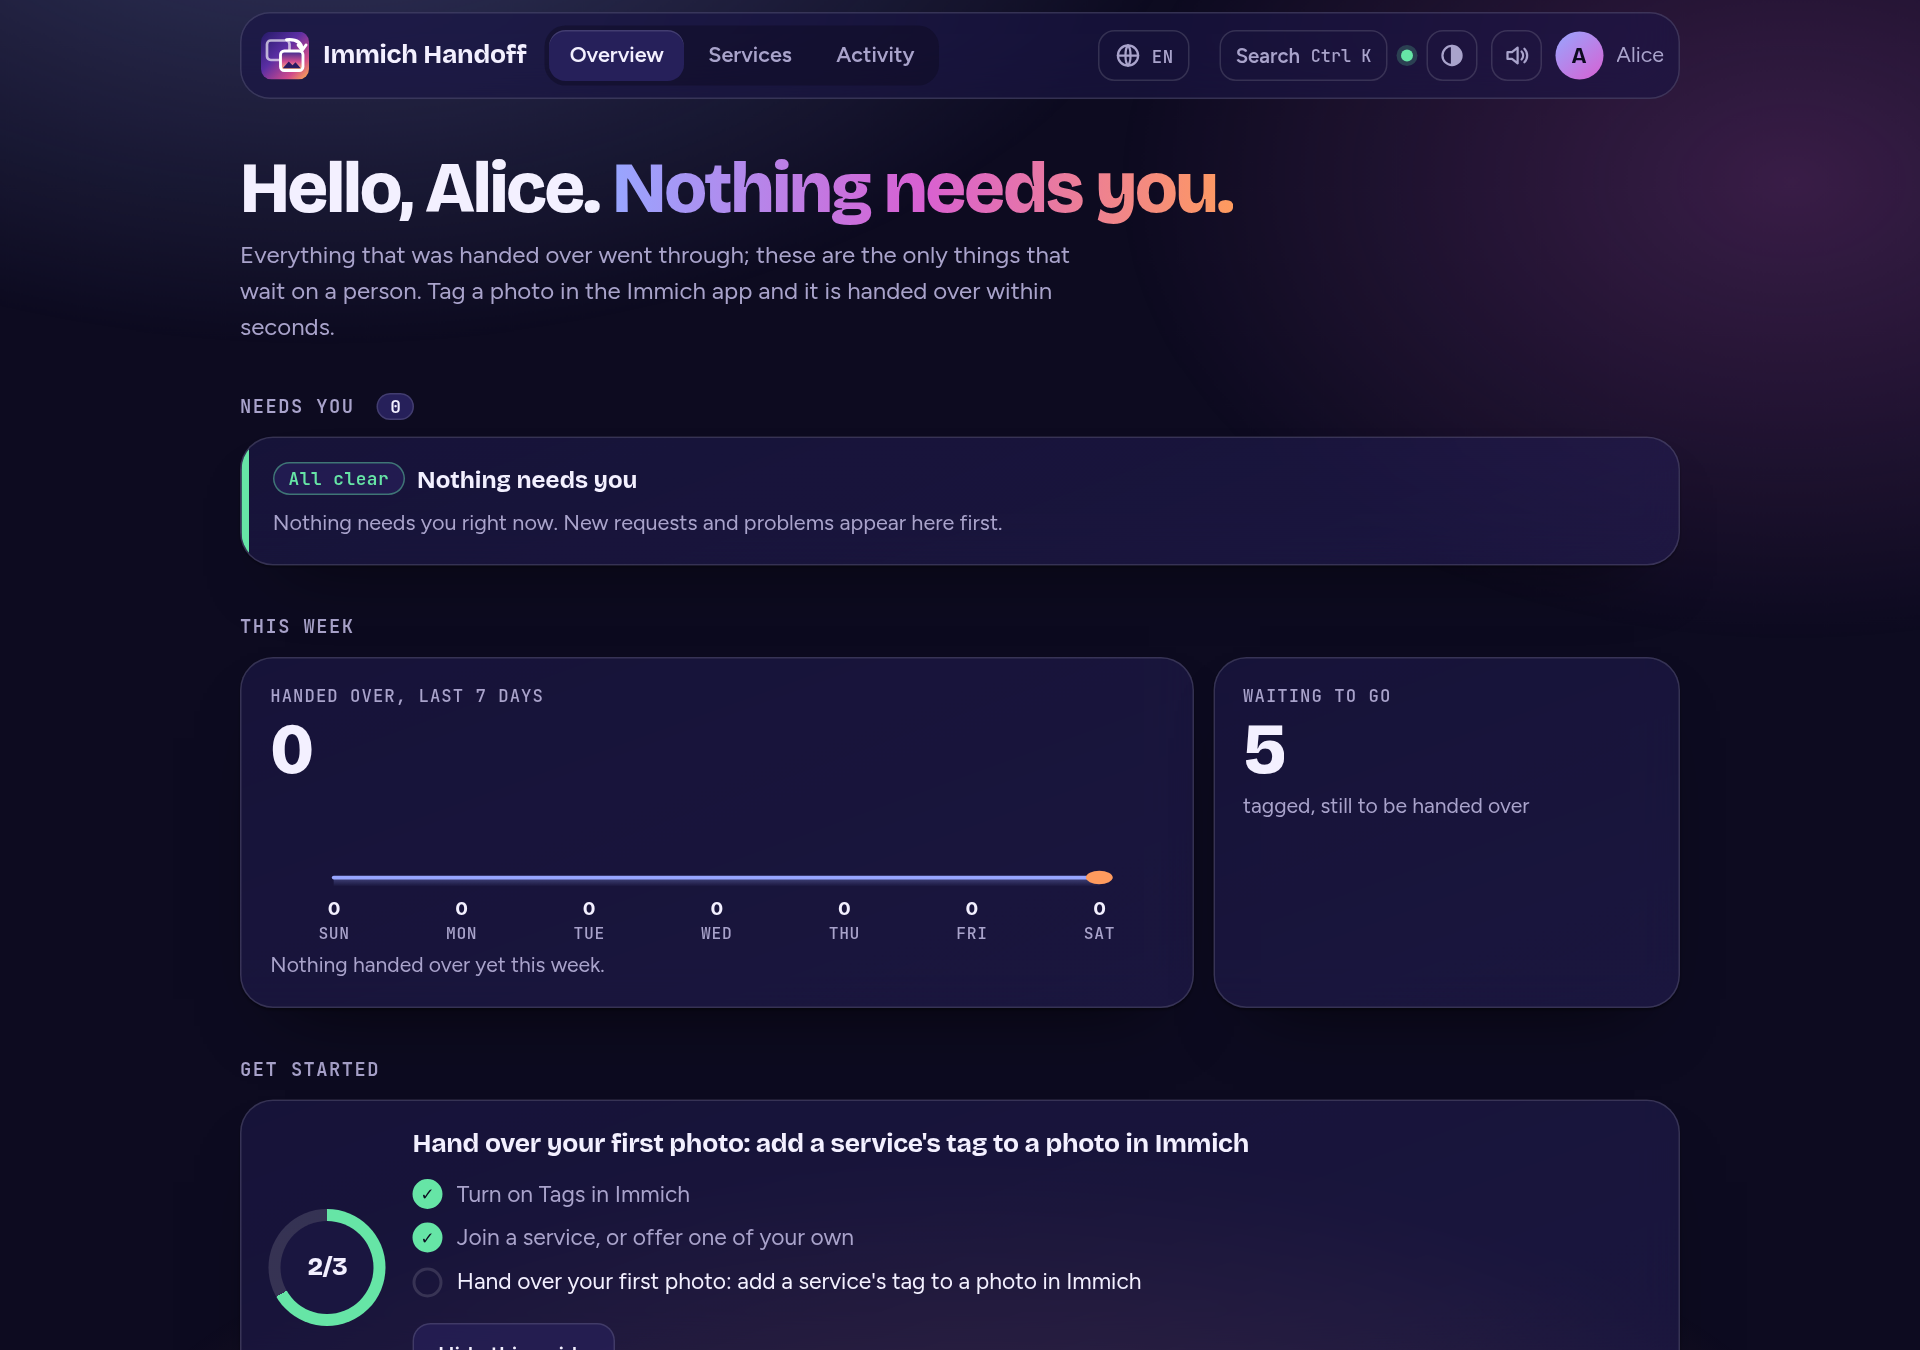
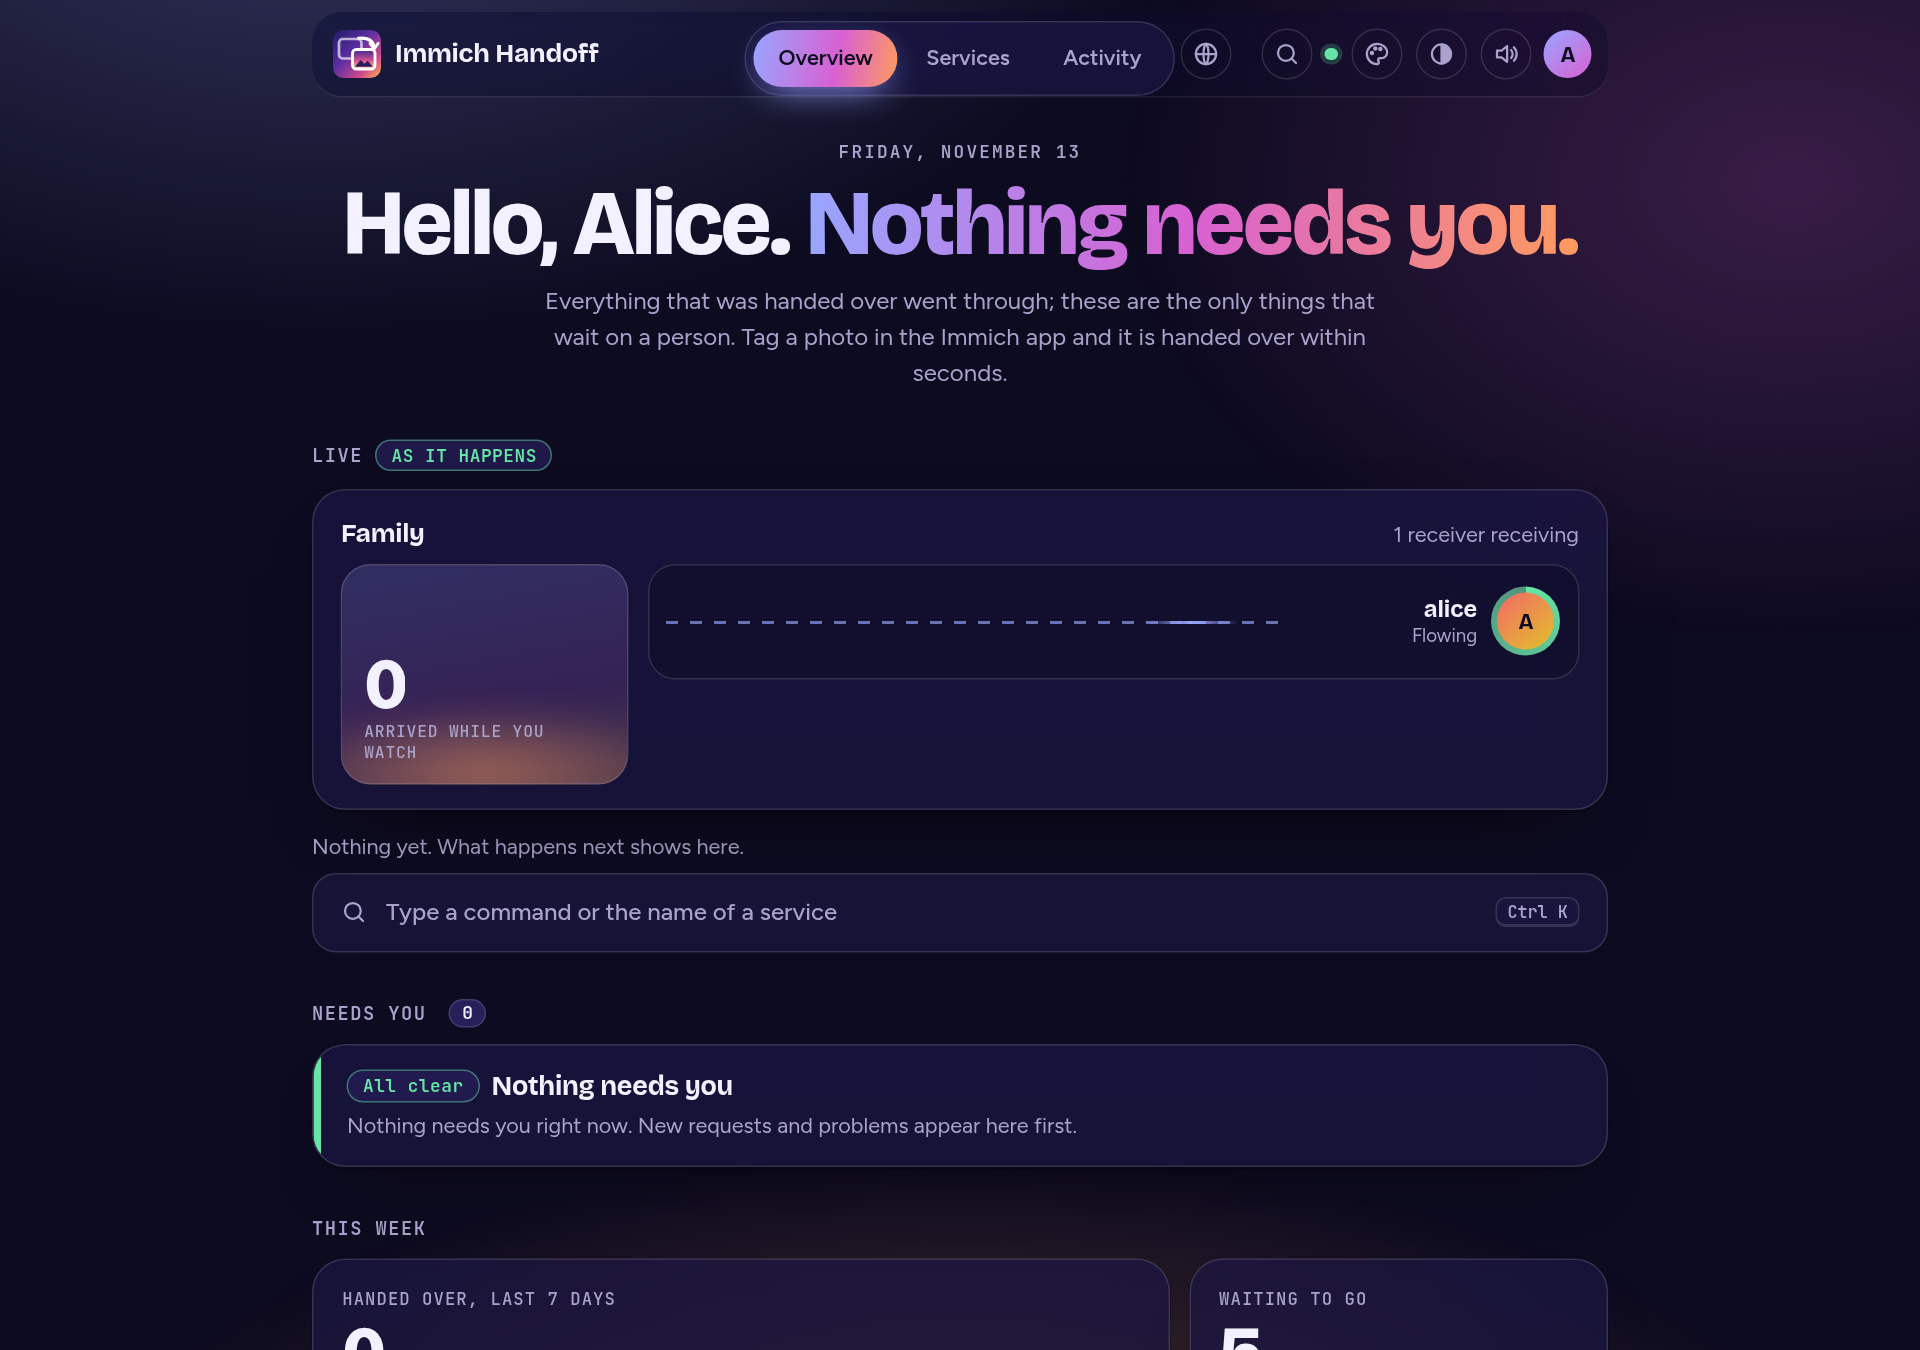
docs: new pictures and animations of the new look, and a wall animation; the screenshot tool films the wall and the colour scheme menu and has an audit set

Changed region(s): [[0.125, 0.28, 0.875, 1.0], [0.125, 0.0, 0.8125, 0.28], [0.5625, 0.0, 0.875, 0.0622]]

diff --git a/tools/screenshots/wall.go b/tools/screenshots/wall.go
@@ -1,0 +1,121 @@
+package main
+
+import (
+	"bytes"
+	"context"
+	"encoding/json"
+	"fmt"
+	"io"
+	"log"
+	"mime/multipart"
+	"net/http"
+	"net/url"
+	"os"
+	"path/filepath"
+	"regexp"
+	"sort"
+	"strings"
+	"time"
+)
+
+// wallScene makes what the wall's animation needs: as Bob, a drop box and a wall on it, and a few photos sent through the
+// box's link the way a guest sends them. It waits until the wall lists them, and returns the wall's address and the
+// steps that send one more photo while the page is filmed (a new arrival) and try the styles.
+func wallScene() (string, []step) {
+	cookies := ""
+	for _, c := range loginCookies("bob@test.local") {
+		cookies += c.Name + "=" + c.Value + "; "
+	}
+	call := func(method, path string, body io.Reader, ctype string) (int, string) {
+		req, err := http.NewRequest(method, appURL+path, body)
+		if err != nil {
+			log.Fatal(err)
+		}
+		req.Header.Set("Cookie", cookies)
+		req.Header.Set("X-Requested-With", "immich-handoff")
+		if ctype != "" {
+			req.Header.Set("Content-Type", ctype)
+		}
+		res, err := http.DefaultClient.Do(req)
+		if err != nil {
+			log.Fatal(err)
+		}
+		defer res.Body.Close()
+		b, _ := io.ReadAll(res.Body)
+		return res.StatusCode, string(b)
+	}
+	form := func(path string, v url.Values) (int, string) {
+		return call("POST", path, strings.NewReader(v.Encode()), "application/x-www-form-urlencoded")
+	}
+	if code, body := form("dropbox", url.Values{"name": {"Summer wedding"}, "opendays": {"30"}, "message": {"Share your photos of the day."}}); code >= 300 {
+		log.Fatalf("make the drop box: %d %s", code, body)
+	}
+	_, page := call("GET", "", nil, "")
+	id := regexp.MustCompile(`(?s)hx-post="dropbox/wall"[^>]*?service(?:"|&#34;):(?:"|&#34;)([0-9A-Za-z-]+)`).FindStringSubmatch(page)
+	if id == nil {
+		log.Fatal("the wall's button is not on Bob's page")
+	}
+	if code, body := form("dropbox/wall", url.Values{"service": {id[1]}}); code >= 300 {
+		log.Fatalf("start the wall: %d %s", code, body)
+	}
+	_, page = call("GET", "", nil, "")
+	wall := regexp.MustCompile(`wall/([0-9a-f]{20,})`).FindStringSubmatch(page)
+	drop := regexp.MustCompile(`drop/([0-9a-f]{32,})`).FindStringSubmatch(page)
+	if wall == nil || drop == nil {
+		log.Fatalf("the links are not on Bob's page (wall %v, drop %v)", wall != nil, drop != nil)
+	}
+	photos, _ := filepath.Glob(filepath.Join(os.Getenv("HOME"), ".local/share/immich-handoff-shots/photos", "*.jpg"))
+	sort.Strings(photos)
+	if len(photos) < 10 {
+		log.Fatal("no sample photos: run `go run . gen` first")
+	}
+	photos = photos[len(photos)-8:] // the last ones, which nothing else used
+	next := 0
+	send := func() {
+		var buf bytes.Buffer
+		mw := multipart.NewWriter(&buf)
+		f := photos[next%len(photos)]
+		next++
+		data, _ := os.ReadFile(f)
+		fw, _ := mw.CreateFormFile("files", filepath.Base(f))
+		fw.Write(data)
+		mw.Close()
+		req, _ := http.NewRequest("POST", appURL+"drop/"+drop[1]+"/upload", &buf)
+		req.Header.Set("Content-Type", mw.FormDataContentType())
+		req.Header.Set("X-Requested-With", "immich-handoff")
+		res, err := http.DefaultClient.Do(req)
+		if err != nil {
+			log.Printf("send a photo: %v", err)
+			return
+		}
+		io.Copy(io.Discard, res.Body)
+		res.Body.Close()
+	}
+	for i := 0; i < 3; i++ {
+		send()
+	}
+	// wait until the wall lists them (Immich has to take them in and the box tags them)
+	feed := appURL + "wall/" + wall[1] + "/feed"
+	deadline := time.Now().Add(150 * time.Second)
+	for time.Now().Before(deadline) {
+		res, err := http.Get(feed)
+		if err == nil {
+			var out struct{ Items []struct{ ID int } }
+			json.NewDecoder(res.Body).Decode(&out)
+			res.Body.Close()
+			if len(out.Items) >= 3 {
+				break
+			}
+		}
+		time.Sleep(3 * time.Second)
+	}
+	wake := js(`document.dispatchEvent(new Event('mousemove'))`)
+	steps := []step{
+		{3, func(context.Context) { send() }}, // a photo arrives while the wall is on screen
+		{13, wake}, {13.4, click(`button[data-fx="zoom"]`)},
+		{19, wake}, {19.4, click(`button[data-fx="slide"]`)},
+		{25, wake}, {25.4, click(`button[data-mode="grid"]`)},
+		{31, wake}, {31.4, click(`button[data-mode="collage"]`)},
+	}
+	return fmt.Sprintf("%swall/%s", appURL, wall[1]), steps
+}

diff --git a/tools/screenshots/film.go b/tools/screenshots/film.go
@@ -31,6 +31,7 @@ type scene struct {
 	clip           string // an XPath: only this element is kept (the crop is written to crop.txt)
 	pad            float64
 	steps          []step
+	prep           func() (string, []step) // sets the scene up and says where to look (and what to do while filming)
 }
 
 type step struct {
@@ -49,9 +50,10 @@ func scenes() map[string]scene {
 		// the command palette, in the dark: open it, type, move down, choose
 		"palette-dark": {name: "palette-dark", who: "bob@test.local", url: appURL, w: 1280, h: 720, dark: true, secs: 9,
 			steps: []step{{1.2, click("#palette")}, {2.4, typeText("#cmd-q", "ser", 280*time.Millisecond)}, {4.2, key("ArrowDown")}, {5.4, key("Enter")}}},
-		// the theme button: light, dark, light
-		"theme-switch": {name: "theme-switch", who: "bob@test.local", url: appURL, w: 1280, h: 720, secs: 8,
-			steps: []step{{1.5, click("#theme")}, {4.8, click("#theme")}}},
+		// the two buttons in the bar: light, dark, light; then the colour scheme menu and the other scheme, in light and dark
+		"theme-switch": {name: "theme-switch", who: "bob@test.local", url: appURL, w: 1280, h: 720, secs: 15,
+			steps: []step{{1.2, click("#theme")}, {3, click("#theme")}, {4.8, click("details.scheme > summary")}, {6, click(`button[data-palette="immich"]`)},
+				{8, click("#theme")}, {10, click("details.scheme > summary")}, {11.2, click(`button[data-palette="twilight"]`)}}},
 		// tabs, and a service row that opens in place, with the cards tilting toward the pointer (light)
 		"services-light": {name: "services-light", who: "bob@test.local", url: appURL, w: 1280, h: 760, secs: 10,
 			steps: []step{{1, click(`nav.tabs a[data-view="services"]`)}, {2.4, click("#v-services details.svc > summary")},
@@ -62,6 +64,8 @@ func scenes() map[string]scene {
 			steps: []step{{0.8, js(`const r=[...document.querySelectorAll('#v-services details.svc')].find(d=>d.querySelector('input.invite')); r.open=true`)},
 				{1.8, js(`document.querySelector('input.invite').scrollIntoView({block:'center', behavior:'smooth'})`)},
 				{3.2, click("button.show-qr")}, {5.6, click("button.copy-message")}}},
+		// the wall on a screen, in the dark: a photo arrives, then the styles and the layouts are tried
+		"wall": {name: "wall", w: 1280, h: 720, dark: true, secs: 36, prep: wallScene},
 		// the page on a phone, in the dark, while photos are handed over
 		"phone-dark": {name: "phone-dark", who: "alice@test.local", url: appURL, w: 390, h: 844, mobile: true, dark: true, secs: 36,
 			steps: []step{{0.2, js(`window.scrollTo(0, 400)`)}, {3, fire}}},
@@ -147,6 +151,11 @@ func film(name, dir string) {
 		}
 		log.Fatalf("unknown scene %q; scenes: %s", name, strings.Join(names, ", "))
 	}
+	if sc.prep != nil {
+		var more []step
+		sc.url, more = sc.prep()
+		sc.steps = append(sc.steps, more...)
+	}
 	os.RemoveAll(dir)
 	os.MkdirAll(dir, 0o755)
 	opts := append(chromedp.DefaultExecAllocatorOptions[:],
@@ -172,11 +181,13 @@ func film(name, dir string) {
 			return browser.GrantPermissions([]browser.PermissionType{browser.PermissionTypeClipboardReadWrite, browser.PermissionTypeClipboardSanitizedWrite}).Do(ctx)
 		}),
 	}
-	for _, c := range loginCookies(sc.who) {
-		c := c
-		tasks = append(tasks, chromedp.ActionFunc(func(ctx context.Context) error {
-			return network.SetCookie(c.Name, c.Value).WithDomain(c.Domain).WithPath(c.Path).WithHTTPOnly(c.HTTPOnly).Do(ctx)
-		}))
+	if sc.who != "" { // the wall needs no sign-in
+		for _, c := range loginCookies(sc.who) {
+			c := c
+			tasks = append(tasks, chromedp.ActionFunc(func(ctx context.Context) error {
+				return network.SetCookie(c.Name, c.Value).WithDomain(c.Domain).WithPath(c.Path).WithHTTPOnly(c.HTTPOnly).Do(ctx)
+			}))
+		}
 	}
 	tasks = append(tasks, chromedp.Navigate(sc.url), chromedp.WaitReady("body"),
 		chromedp.Poll(settled, nil, chromedp.WithPollingTimeout(30*time.Second)), chromedp.Sleep(2500*time.Millisecond))

diff --git a/README.md b/README.md
@@ -42,20 +42,23 @@ Everyone's phone keeps backing up to their own account, and anyone can hand phot
 
 ## In action
 
-Everything below is recorded from the real page, in the dark theme or the light one.
+Everything below is recorded from the real page, in the dark or the light variant of its two colour schemes.
 
 <table>
   <tr>
-    <td width="50%" valign="top"><img src="docs/images/arrival-dark.gif" alt="The Overview in the dark theme: six photos are tagged and Waiting jumps to six, then Handed over rolls up to six and the chart climbs while Waiting counts back down to zero"><br><sub><b>Tag, and watch it go.</b> The numbers roll like a departures board.</sub></td>
+    <td width="50%" valign="top"><img src="docs/images/arrival-dark.gif" alt="The Overview in the dark theme: six photos are tagged, and each flies out of the You gate as an outlined square with an arrow while the counter climbs to six"><br><sub><b>Tag, and watch it go.</b> Photos fly along their lane, both ways, and the counters climb.</sub></td>
     <td width="50%" valign="top" align="center"><img src="docs/images/phone-dark.gif" alt="The same on a phone, in the dark theme: the numbers roll and the live lane shows each photo travelling" width="260"><br><sub><b>On a phone,</b> the same page, and it installs like an app.</sub></td>
   </tr>
   <tr>
     <td width="50%" valign="top"><img src="docs/images/palette-dark.gif" alt="The command palette in the dark theme: Ctrl K, typing ser, moving down, and a service opening in place"><br><sub><b>Everything from the keyboard.</b> Ctrl K, type, Enter.</sub></td>
-    <td width="50%" valign="top"><img src="docs/images/theme-switch.gif" alt="The Overview switching from the light theme to the dark one and back"><br><sub><b>Light or dark,</b> as you like it; it also follows your phone or browser.</sub></td>
+    <td width="50%" valign="top"><img src="docs/images/theme-switch.gif" alt="The bar's two buttons: the Overview switches to dark and back to light, then the colour scheme menu changes it to the Immich blues, in light and in dark"><br><sub><b>Two colour schemes, light or dark,</b> as you like them; they also follow your phone or browser.</sub></td>
   </tr>
   <tr>
     <td width="50%" valign="top"><img src="docs/images/services-light.gif" alt="The Services tab in the light theme: a service opens in place while the cards tilt toward the pointer, then the Activity timeline"><br><sub><b>Services open in place,</b> and the activity is a timeline.</sub></td>
     <td width="50%" valign="top"><img src="docs/images/invite-qr.gif" alt="An invitation: the link, a QR code that opens, and the button that copies a ready-written message"><br><sub><b>Invite someone</b> with a link, a ready-written message or a QR code.</sub></td>
+  </tr>
+  <tr>
+    <td colspan="2" valign="top" align="center"><img src="docs/images/wall.gif" alt="A wall on a screen: a new photo arrives with a soft ring round it, then the style changes between fade, zoom, slide and rise, and the layout between a grid and a collage" width="520"><br><sub><b>A wall for the party.</b> Photos guests send arrive on a big screen, in the style you choose.</sub></td>
   </tr>
 </table>
 
